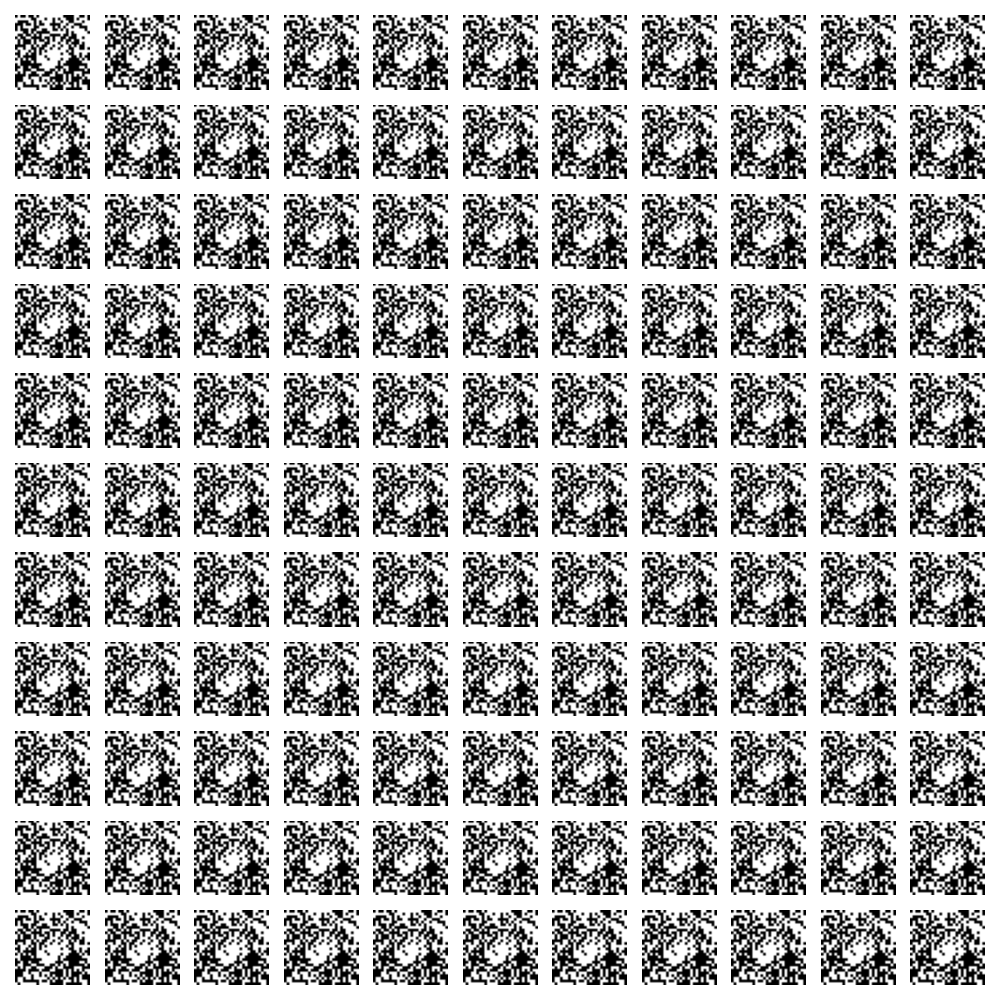
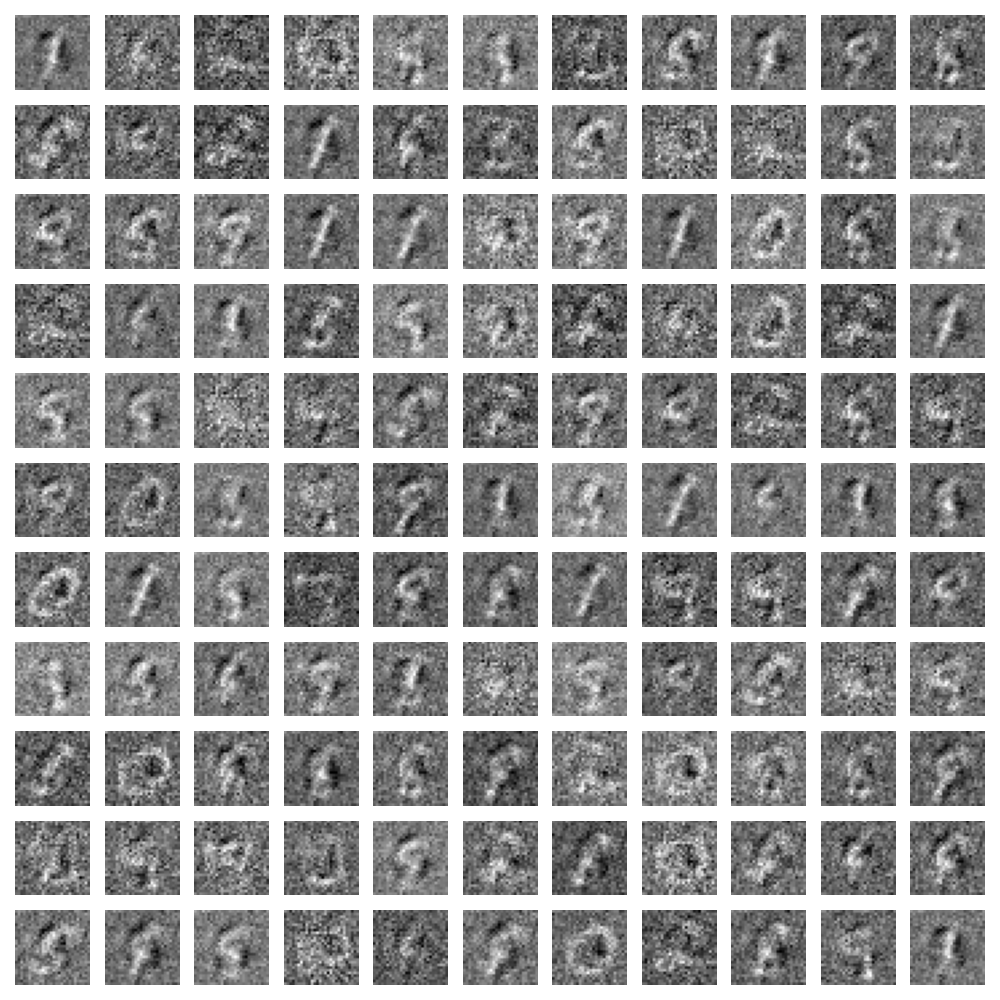
Change GAN training

diff --git a/src/models/gan/gan/__init__.py b/src/models/gan/gan/__init__.py
@@ -19,11 +19,11 @@ class Discriminator(nn.Module):
         self.activation_fn = nn.LeakyReLU(0.2, inplace=True)
         self.dropout = nn.Dropout(0.3)
 
-        self.linear1 = nn.Linear(in_channels, 512)
-        self.bn1 = nn.BatchNorm1d(512)
-        self.linear2 = nn.Linear(512, 256)
-        self.bn2 = nn.BatchNorm1d(256)
-        self.linear3 = nn.Linear(256, 1)
+        self.linear1 = nn.Linear(in_channels, 256)
+        self.bn1 = nn.BatchNorm1d(256)
+        self.linear2 = nn.Linear(256, 128)
+        self.bn2 = nn.BatchNorm1d(128)
+        self.linear3 = nn.Linear(128, 1)
 
         _ = nn.init.kaiming_uniform_(self.linear1.weight, nonlinearity="relu")
         _ = nn.init.kaiming_uniform_(self.linear2.weight, nonlinearity="relu")
@@ -47,7 +47,6 @@ class Generator(nn.Module):
         super(Generator, self).__init__()
 
         self.activation_fn = nn.ReLU(inplace=True)
-        self.dropout = nn.Dropout(0.3)
 
         self.linear1 = nn.Linear(100, 256)
         self.bn1 = nn.BatchNorm1d(256)
@@ -57,8 +56,6 @@ class Generator(nn.Module):
         self.bn3 = nn.BatchNorm1d(1024)
         self.linear4 = nn.Linear(1024, output_size)
 
-        self.output_activation = nn.Tanh()  # Use Tanh for output layer
-
         _ = nn.init.kaiming_uniform_(self.linear1.weight, nonlinearity="relu")
         _ = nn.init.kaiming_uniform_(self.linear2.weight, nonlinearity="relu")
         _ = nn.init.kaiming_uniform_(self.linear3.weight, nonlinearity="relu")
@@ -67,12 +64,9 @@ class Generator(nn.Module):
     @override
     def forward(self, x: torch.Tensor) -> torch.Tensor:
         o = self.activation_fn(self.bn1(self.linear1(x)))
-        o = self.dropout(o)
         o = self.activation_fn(self.bn2(self.linear2(o)))
-        o = self.dropout(o)
         o = self.activation_fn(self.bn3(self.linear3(o)))
         o = self.linear4(o)
-        o = self.output_activation(o)
 
         return o
 

diff --git a/src/main.py b/src/main.py
@@ -257,6 +257,7 @@ def main():
         early_stopping=True,
         early_stopping_min_delta=0.05,
         epochs=30,
+        real_label=0.95,
     )
     GANConfig.save_config(config)
     # config = GANConfig.load_config("gan_mnist")
